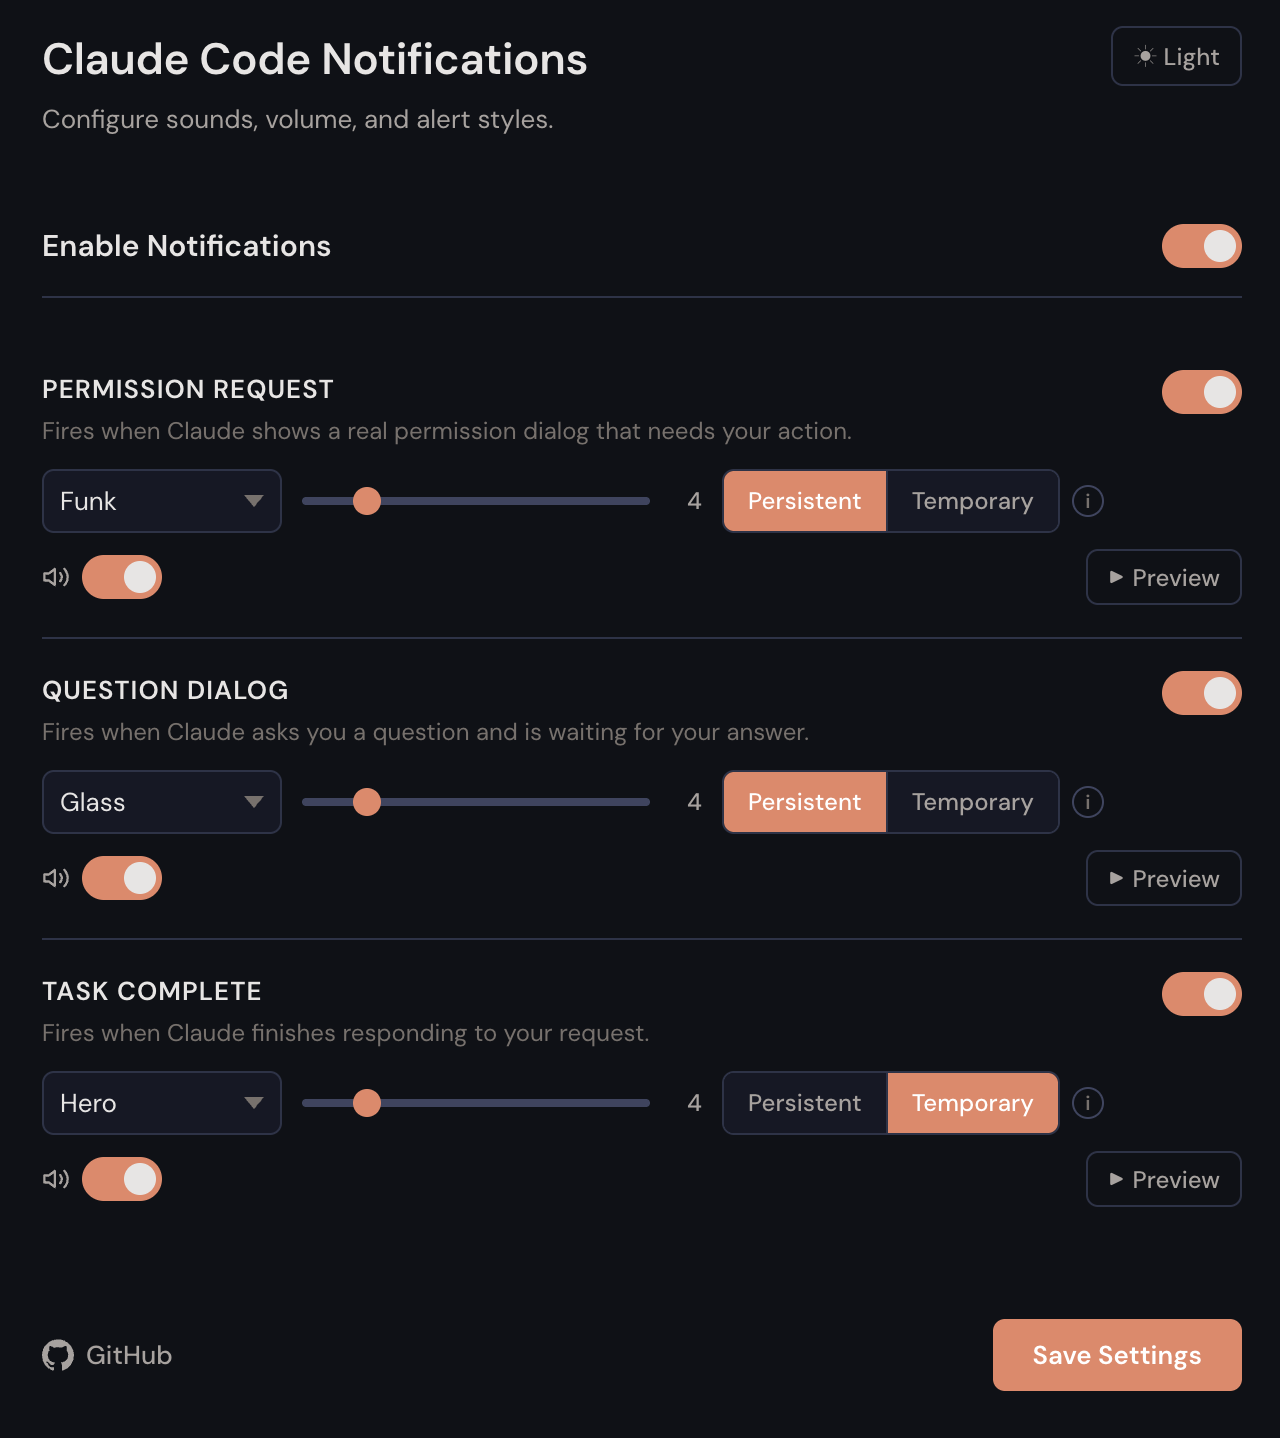
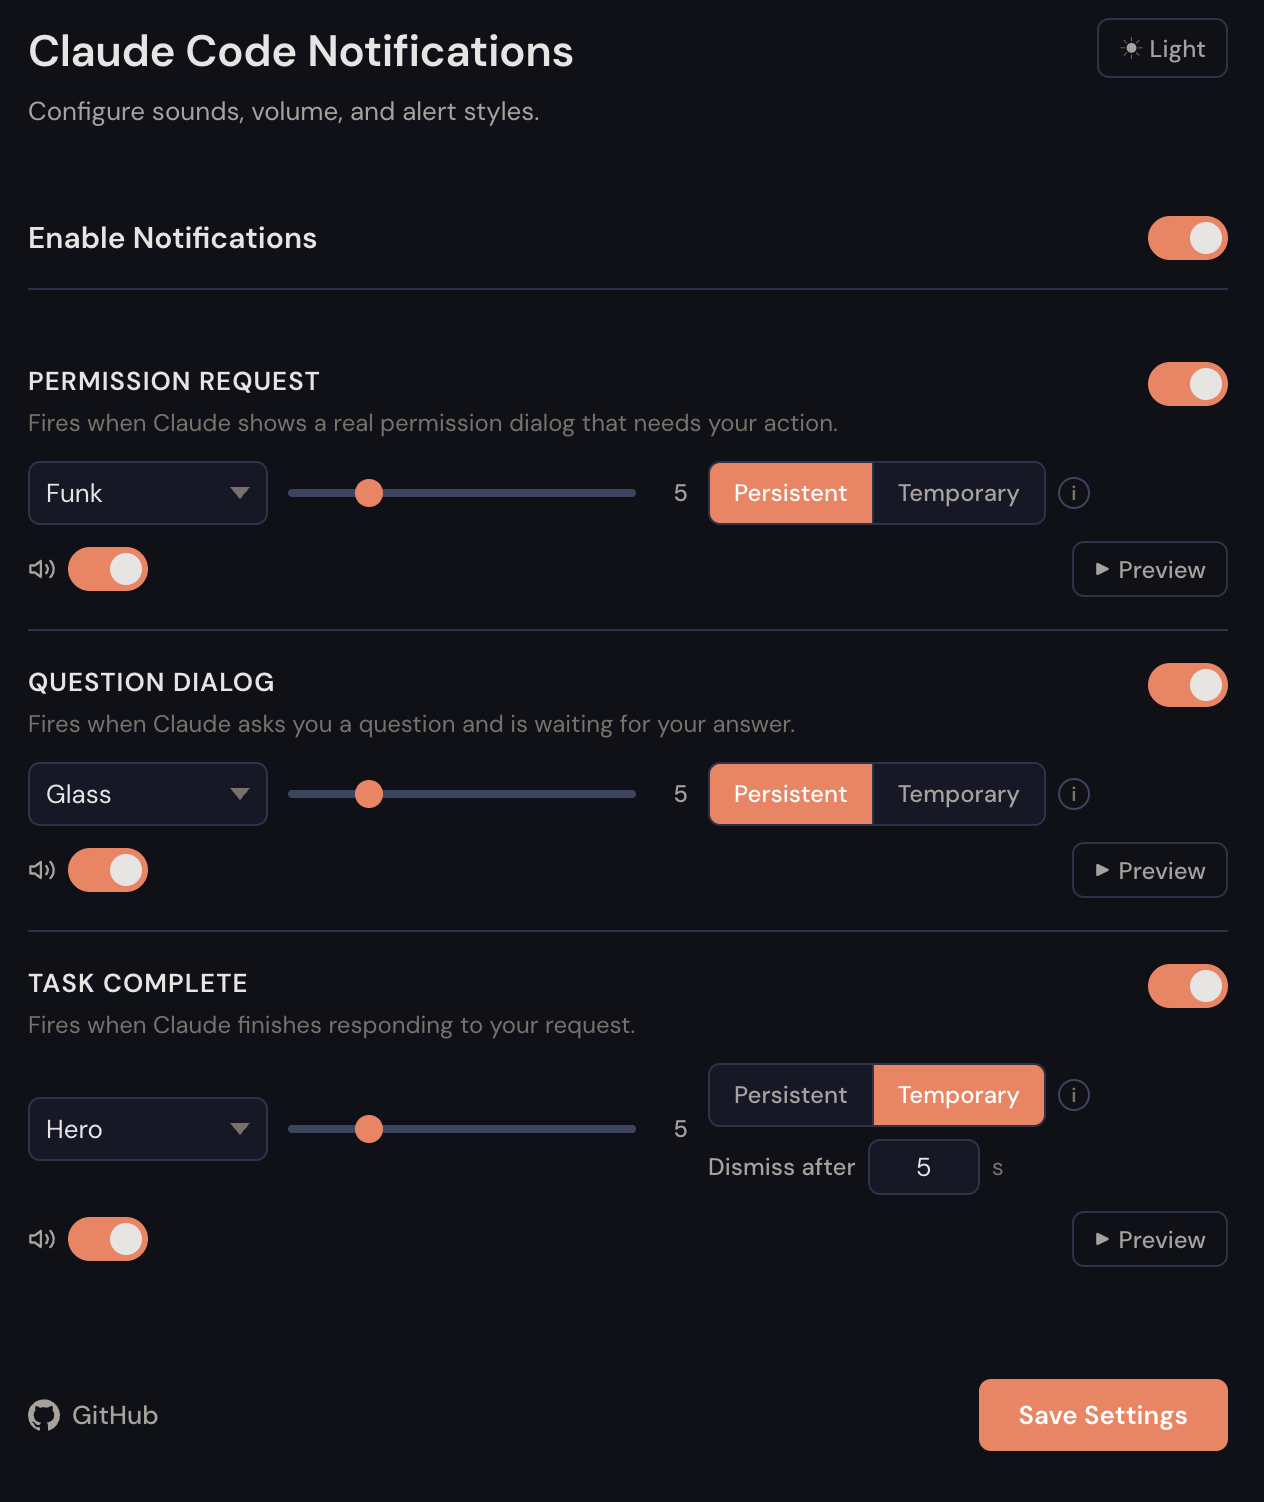
Update README.md

diff --git a/README.md b/README.md
@@ -6,7 +6,7 @@ Native macOS notifications when Claude Code needs your attention or finishes a t
 
 **Works with any terminal** — clicking a notification activates your terminal
 
-**Customizable** — sound, volume, persistent vs temporary style, and enable/disable per event type.
+**Customizable** — sound, volume, persistent vs temporary style, notification duration, and enable/disable per event type.
 
 **Browser-based settings UI** — configure everything from a local web page.
 
@@ -25,15 +25,29 @@ git clone https://github.com/shamrai-nikita/claude-code-notifications.git
 cd claude-code-notifications
 ```
 
-Then run:
+Then run `install.sh` — double-click it in Finder or run from the terminal:
 
 ```bash
 ./install.sh
 ```
 
-After the script finishes, System Settings will open automatically. Enable notifications for **ClaudeNotifications** in System Settings > Notifications.
+❗ Enable notifications for **ClaudeNotifications** in System Settings > Notifications.
 
-Then restart any running Claude Code sessions.
+<details>
+<summary>macOS 26 and above</summary>
+
+<img src="images/settings-macos26.png" width="500" alt="Enable notifications — macOS 26">
+
+</details>
+
+<details>
+<summary>macOS 15 and below</summary>
+
+<img src="images/settings-macos15.png" width="500" alt="Enable notifications — macOS 15">
+
+</details>
+
+✅ Done — you'll start receiving Claude Code notifications.
 
 ## Settings UI
 
@@ -63,24 +77,40 @@ open /Applications/ClaudeNotifications.app
 
 Or drag `/Applications/ClaudeNotifications.app` to Trash — cleanup happens automatically on the next Claude Code hook event.
 
-<details>
-<summary><strong>Troubleshooting</strong></summary>
+## Troubleshooting
 
-**I hear sound but don't see notifications**
+<details>
+<summary><strong>I hear sound but don't see notifications</strong></summary>
 
 Check that notifications for ClaudeNotifications are enabled in System Settings > Notifications.
 
-**Notifications cover each other**
+</details>
+
+<details>
+<summary><strong>Notifications cover each other</strong></summary>
 
 In System Settings > Notifications > ClaudeNotifications, set notification grouping to Off.
 
-**I don't see ClaudeNotifications in the notification apps list**
+</details>
+
+<details>
+<summary><strong>I don't see ClaudeNotifications in the notification apps list</strong></summary>
 
 Try locating it through the Applications section in Finder.
 
-**Notifications disappear after 5 seconds even though I set them to Persistent**
+</details>
 
-In System Settings > Notifications > ClaudeNotifications, make sure the alert style is set to Alerts (called "Persistent" on macOS 15 and below).
+<details>
+<summary><strong>Notifications disappear after 5 seconds even though I set them to Persistent</strong></summary>
+
+In System Settings > Notifications > ClaudeNotifications, make sure the alert style is set to Persistent ("Alerts" on macOS 15 and below).
+
+</details>
+
+<details>
+<summary><strong>Settings UI not saving settings or throwing an error</strong></summary>
+
+Close the browser tab and open the ClaudeNotifications app again.
 
 </details>
 
